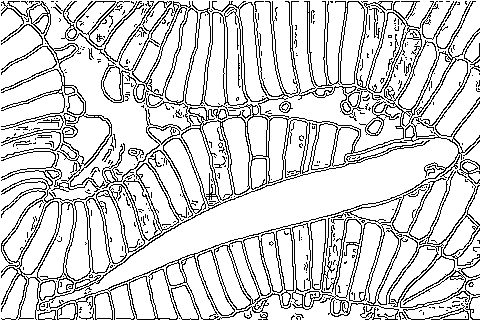
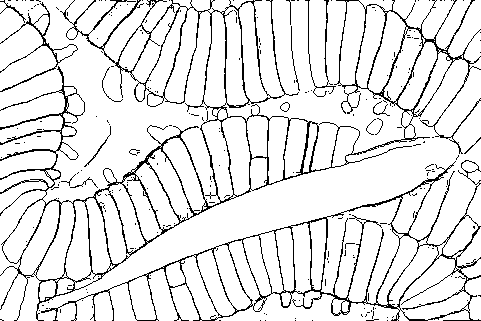
update

diff --git a/main.py b/main.py
@@ -8,7 +8,22 @@ from segment_anything import sam_model_registry
 
 from automatic_mask_and_probability_generator import \
     SamAutomaticMaskAndProbabilityGenerator
-from edge_nms import Canny, normalize_image
+
+import argparse
+
+def normalize_image(image):
+    # Normalize the image to the range [0, 1]
+    min_val = image.min()
+    max_val = image.max()
+    image = (image - min_val) / (max_val - min_val)
+
+    return image
+
+
+def get_args():
+    parser = argparse.ArgumentParser()
+    parser.add_argument('--pp', type=str, default='threshold')
+    return parser.parse_args()
 
 
 def main():
@@ -31,16 +46,24 @@ def main():
         else:
             p_max = np.maximum(p_max, p)
 
+    p_max = normalize_image(p_max)
+
+    args = get_args()
+    assert args.pp in ['threshold', 'canny']
+
+    if args.pp == 'threshold':
+        # p_max min-max normalization
+        p_max[p_max < 0.5] = 0
+        p_max[p_max >= 0.5] = 1
+        edges = (p_max * 255).astype(np.uint8)
+    elif args.pp == 'canny':
+        # Canny edge detection
+        p_max = (p_max * 255).astype(np.uint8)
+        edges = cv2.Canny(p_max, threshold1=100, threshold2=200)
+
     # make output directory
     os.makedirs('output', exist_ok=True)
-
-    # p_max min-max normalization
-    p_max = normalize_image(p_max)
-    plt.imsave('output/prob.png', p_max, cmap='binary')
-
-    # Canny edge detection
-    image, _ = Canny(p_max, 0, 50)
-    plt.imsave('output/edge.png', image, cmap='binary')
+    plt.imsave('output/edge.png', edges, cmap='binary')
 
 
 if __name__ == "__main__":

diff --git a/README.md b/README.md
@@ -1,25 +1,24 @@
 # segment-anything-edge-detection
 
 <p>
-<img src='assets/fish.jpg' height=150px /> <img src='assets/prob.png' height=150px /> <img src='assets/edge.png' height=150px />
+<img src='assets/fish.jpg' height=150px /> <img src='assets/edge.png' height=150px />
 </p>
 
-This repository provides code for performing edge detection using the Automatic Mask Generation (AMG) of Segment Anything Model (SAM). Since the code used in the paper is not currently available to the public, this implementation is based on the descriptions provided in the paper.
+This repository provides code for performing edge detection using the Automatic Mask Generation (AMG) of the Segment Anything Model (SAM). Since the code used in the paper is not currently available to the public, this implementation is based on the descriptions provided in the paper.
 
-The image on the far left is taken from the BSDS dataset. In the middle is the probability map obtained using AMG. The final image on the right is the result of applying Edge Non-Maximum Suppression (Edge NMS) to the probability map.
+The image on the far left is taken from the BSDS dataset. <!-- The center is the ground truth edge.  --> The final image on the right is the result of applying edge detection using probability map thresholds.
 
 ## Run
 This repository assumes that you can already use a SAM model.
-To generate the above two images, do the following:
+To generate the image above, do the following:
 ```
-python main.py
+python main.py --pp threshold
 ```
 
 ## TODO
-- The thick lines on the probability map split into two lines after Edge NMS, so there is a need to improve the accuracy. If you know anything about edge detection, feel free to submit a pull request.
+- The thick lines on the probability map split into two lines after Edge NMS, so there is a need to improve the accuracy. Therefore, edge detection using thresholds for probability maps is currently the default setting. If you know something about edge detection, feel free to submit a pull request.
 - If time permits, I may create a pipeline to perform an end-to-end evaluation of SAM's edge detection performance using the BSDS dataset.
 
 ## Reference
-The code in this repository mainly uses code from the following two repositories. Thanks.
+The code in this repository mainly uses code from the following two repositories. Thanks you.
 - [segment-anything](https://github.com/facebookresearch/segment-anything)
-- [Edge-detection---Canny-detector](https://github.com/StefanPitur/Edge-detection---Canny-detector)
